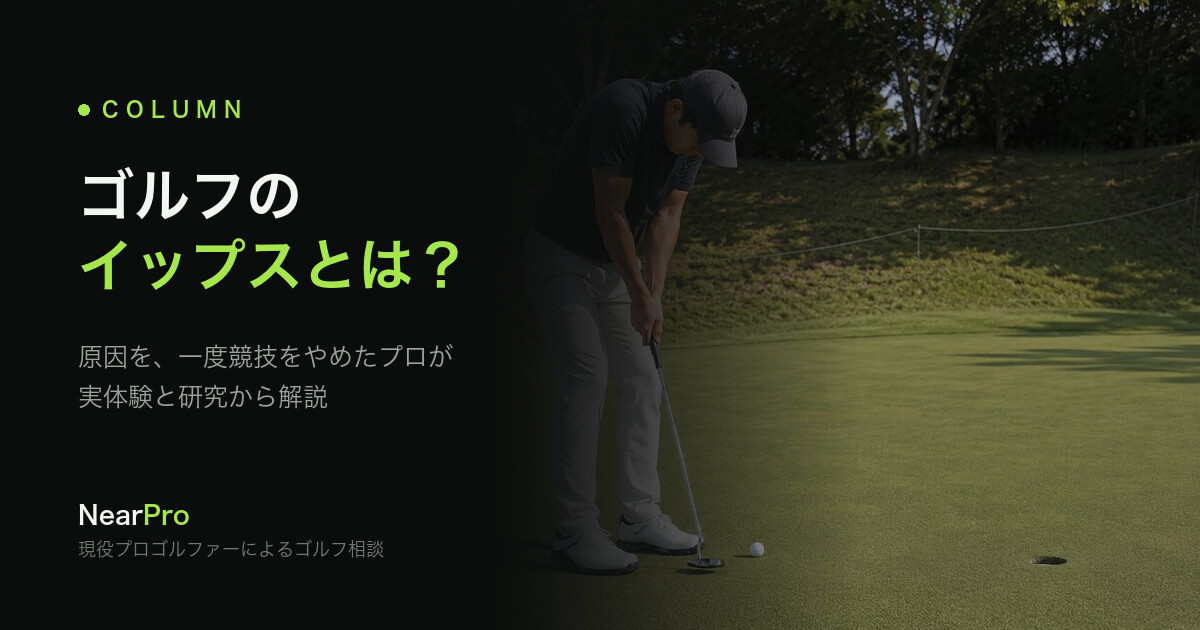
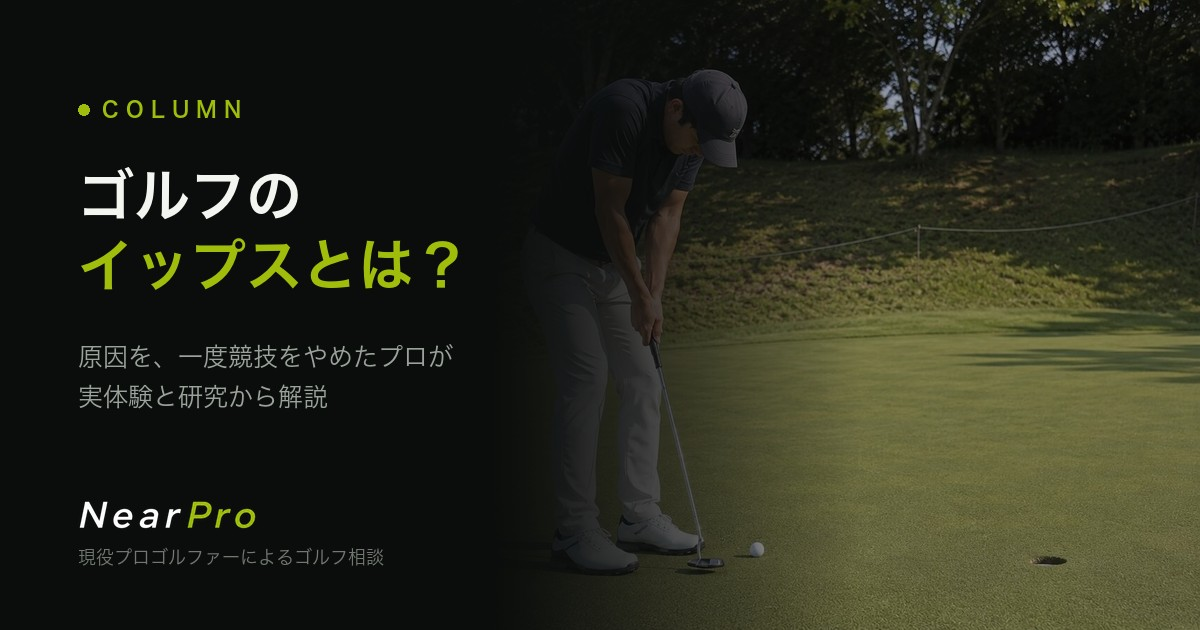
サイト全体の緑をロゴの色(#a0bd0b)に統一、マーキーをロゴ表示に変更、OGP画像を更新

Changed region(s): [[0.0617, 0.7841, 0.3392, 0.9048], [0.0617, 0.3619, 0.4008, 0.4524], [0.0617, 0.1508, 0.2158, 0.181]]

diff --git a/styles.css b/styles.css
@@ -8,9 +8,9 @@
     --faint: #666e66;
     --line: rgba(255, 255, 255, 0.10);
     --line-strong: rgba(255, 255, 255, 0.18);
-    --accent: #a6e64d;
-    --accent-2: #c9ff62;
-    --accent-dim: rgba(166, 230, 77, 0.14);
+    --accent: #a0bd0b;
+    --accent-2: #bcde0d;
+    --accent-dim: rgba(160, 189, 11, 0.14);
     --serif: "Shippori Mincho", "Hiragino Mincho ProN", serif;
     --sans: "Noto Sans JP", "Hiragino Sans", "Helvetica Neue", Arial, sans-serif;
     --mono: "Space Grotesk", "Noto Sans JP", sans-serif;
@@ -100,8 +100,8 @@
   }
   .btn .ico { display: inline-flex; align-items: center; justify-content: center; width: 26px; height: 26px; padding: 0; border-radius: 7px; overflow: hidden; }
   .btn .ico svg { width: 26px; height: 26px; display: block; }
-  .btn.primary { background: var(--accent); color: #10230a; box-shadow: 0 10px 30px rgba(166, 230, 77, 0.28); }
-  .btn.primary:hover { transform: translateY(-2px); background: var(--accent-2); box-shadow: 0 16px 40px rgba(166, 230, 77, 0.4); }
+  .btn.primary { background: var(--accent); color: #10230a; box-shadow: 0 10px 30px rgba(160, 189, 11, 0.28); }
+  .btn.primary:hover { transform: translateY(-2px); background: var(--accent-2); box-shadow: 0 16px 40px rgba(160, 189, 11, 0.4); }
   .btn.ghost { border: 1px solid var(--line-strong); color: var(--text); }
   .btn.ghost:hover { border-color: var(--accent); color: var(--accent); }
   .nav .btn { padding: 11px 20px; font-size: 14px; }
@@ -111,7 +111,7 @@
   .hero-bg { position: absolute; inset: 0; z-index: 0; pointer-events: none; }
   .hero-bg::before {
     content: ""; position: absolute; width: 900px; height: 900px; right: -180px; top: -260px;
-    background: radial-gradient(circle, rgba(166, 230, 77, 0.16), rgba(166, 230, 77, 0) 62%);
+    background: radial-gradient(circle, rgba(160, 189, 11, 0.16), rgba(160, 189, 11, 0) 62%);
   }
   .hero-bg::after {
     content: ""; position: absolute; inset: 0;
@@ -139,7 +139,7 @@
     align-self: flex-start;
   }
   .kicker .dot { width: 7px; height: 7px; border-radius: 50%; background: var(--accent); box-shadow: 0 0 12px var(--accent); }
-  .kicker.limited { border-color: rgba(166, 230, 77, 0.45); color: var(--accent-2); background: var(--accent-dim); font-weight: 600; }
+  .kicker.limited { border-color: rgba(160, 189, 11, 0.45); color: var(--accent-2); background: var(--accent-dim); font-weight: 600; }
   .kicker.limited .dot { animation: pulseDot 1.8s ease-in-out infinite; }
   @keyframes pulseDot { 0%, 100% { opacity: 1; } 50% { opacity: 0.35; } }
   h1.title { font-family: var(--serif); font-weight: 800; font-size: clamp(46px, 5.4vw, 70px); line-height: 1.18; margin: 0 0 26px; letter-spacing: 0.01em; }
@@ -167,7 +167,7 @@
     background: radial-gradient(115% 85% at 50% 24%, transparent 42%, rgba(11, 13, 12, 0.62) 100%);
   }
   .media-ring { position: absolute; inset: -1px; border-radius: inherit; pointer-events: none;
-    box-shadow: inset 0 0 0 1px rgba(166, 230, 77, 0.18); border-radius: 220px 220px 26px 26px; }
+    box-shadow: inset 0 0 0 1px rgba(160, 189, 11, 0.18); border-radius: 220px 220px 26px 26px; }
   .floaty {
     position: absolute; z-index: 3; display: inline-flex; align-items: center; gap: 8px;
     background: rgba(20, 24, 21, 0.78); backdrop-filter: blur(10px); border: 1px solid var(--line-strong);
@@ -184,9 +184,12 @@
 
   /* ===== Marquee ===== */
   .marquee { border-top: 1px solid var(--line); border-bottom: 1px solid var(--line); padding: 20px 0; overflow: hidden; background: #0d100e; }
-  .marquee-track { display: flex; gap: 34px; white-space: nowrap; width: max-content; animation: slide 26s linear infinite; }
+  .marquee-track { display: flex; align-items: center; gap: 34px; white-space: nowrap; width: max-content; animation: slide 26s linear infinite; }
   .marquee span { font-family: var(--brand); font-size: 24px; font-weight: 800; letter-spacing: 0.01em; color: var(--faint); }
   .marquee span.hot { color: var(--accent); }
+  .marquee img { display: block; width: auto; }
+  .mq-word { height: 26px; }
+  .mq-mark { height: 27px; }
   .marquee .sep { color: rgba(255,255,255,0.16); }
   @keyframes slide { to { transform: translateX(-50%); } }
 
@@ -197,7 +200,7 @@
     border: 1px solid var(--line); border-radius: 18px; padding: 30px 24px 32px; position: relative;
     transition: transform 0.35s var(--ease), border-color 0.35s, background 0.35s;
   }
-  .prob:hover { transform: translateY(-6px); border-color: var(--line-strong); background: linear-gradient(180deg, rgba(166,230,77,0.06), rgba(255,255,255,0)); }
+  .prob:hover { transform: translateY(-6px); border-color: var(--line-strong); background: linear-gradient(180deg, rgba(160, 189, 11,0.06), rgba(255,255,255,0)); }
   .prob .pn { font-family: var(--mono); font-size: 13px; color: var(--accent); letter-spacing: 0.1em; }
   .prob .pic { width: 46px; height: 46px; color: var(--accent); margin: 20px 0 18px; }
   .prob p { margin: 0; font-size: 17px; font-weight: 500; line-height: 1.6; }
@@ -215,7 +218,7 @@
   .eq-card .s { color: var(--faint); font-size: 12px; line-height: 1.6; }
   .flow-arrow { text-align: center; color: var(--accent); font-size: 22px; margin: 14px 0; opacity: 0.7; }
   .flow-line { border: 1px solid var(--line); border-radius: 14px; padding: 18px 24px; background: rgba(255,255,255,0.02); }
-  .flow-line.hot { border-color: rgba(166,230,77,0.35); background: var(--accent-dim); }
+  .flow-line.hot { border-color: rgba(160, 189, 11,0.35); background: var(--accent-dim); }
   .flow-line .ttl { font-family: var(--serif); font-weight: 700; font-size: 19px; color: var(--text); }
   .flow-line .ttl em { color: var(--accent); }
   .flow-line .sub { color: var(--muted); font-size: 14px; }
@@ -255,20 +258,20 @@
   /* ===== Flow / how it works ===== */
   .steps { display: grid; grid-template-columns: repeat(3, 1fr); gap: 22px; counter-reset: step; }
   .step { position: relative; border: 1px solid var(--line); border-radius: 20px; padding: 40px 28px 34px; background: rgba(255,255,255,0.02); }
-  .step .sn { font-family: var(--mono); font-size: 52px; font-weight: 700; line-height: 1; color: transparent; -webkit-text-stroke: 1px rgba(166,230,77,0.55); text-stroke: 1px rgba(166,230,77,0.55); }
+  .step .sn { font-family: var(--mono); font-size: 52px; font-weight: 700; line-height: 1; color: transparent; -webkit-text-stroke: 1px rgba(160, 189, 11,0.55); text-stroke: 1px rgba(160, 189, 11,0.55); }
   .step h4 { font-family: var(--serif); font-size: 22px; margin: 18px 0 10px; font-weight: 700; }
   .step p { margin: 0; color: var(--muted); font-size: 14.5px; }
 
   /* ===== Pricing ===== */
   .pricing { position: relative; overflow: hidden; }
-  .pricing .glow { position: absolute; left: 50%; top: 30%; width: 640px; height: 460px; transform: translateX(-50%); background: radial-gradient(circle, rgba(166,230,77,0.14), transparent 62%); pointer-events: none; }
+  .pricing .glow { position: absolute; left: 50%; top: 30%; width: 640px; height: 460px; transform: translateX(-50%); background: radial-gradient(circle, rgba(160, 189, 11,0.14), transparent 62%); pointer-events: none; }
   .price-card {
     max-width: 620px; margin: 0 auto; border: 1px solid var(--line-strong); border-radius: 26px;
     background: linear-gradient(180deg, rgba(21,25,22,0.9), rgba(13,16,14,0.9)); padding: 52px 44px; text-align: center;
     box-shadow: 0 40px 90px rgba(0,0,0,0.5); position: relative; overflow: hidden;
   }
   .price-card::before { content: ""; position: absolute; top: 0; left: 0; right: 0; height: 1px; background: linear-gradient(90deg, transparent, var(--accent), transparent); }
-  .price-card .badge { display: inline-block; font-family: var(--mono); font-size: 12px; letter-spacing: 0.14em; text-transform: uppercase; color: var(--accent); border: 1px solid rgba(166,230,77,0.4); border-radius: 999px; padding: 6px 16px; margin-bottom: 26px; }
+  .price-card .badge { display: inline-block; font-family: var(--mono); font-size: 12px; letter-spacing: 0.14em; text-transform: uppercase; color: var(--accent); border: 1px solid rgba(160, 189, 11,0.4); border-radius: 999px; padding: 6px 16px; margin-bottom: 26px; }
   .price-amt { display: flex; align-items: baseline; justify-content: center; gap: 12px; white-space: nowrap; margin-top: 4px; }
   .price-card .amt { font-family: var(--serif); font-weight: 800; font-size: clamp(50px, 13vw, 74px); line-height: 1; letter-spacing: -0.01em; }
   .price-card .per { font-family: var(--sans); font-size: 17px; font-weight: 600; color: var(--muted); }
@@ -291,7 +294,7 @@
   /* ===== FAQ accordion (shared: LP + FAQ page) ===== */
   .faq-item { border: 1px solid var(--line); border-radius: 14px; background: rgba(255, 255, 255, 0.02);
     margin-bottom: 12px; overflow: hidden; transition: border-color 0.25s var(--ease), background 0.25s var(--ease); }
-  .faq-item[open] { border-color: var(--line-strong); background: rgba(166, 230, 77, 0.04); }
+  .faq-item[open] { border-color: var(--line-strong); background: rgba(160, 189, 11, 0.04); }
   .faq-item summary { list-style: none; cursor: pointer; padding: 20px 22px; font-weight: 700; font-size: clamp(15px, 2.4vw, 16.5px);
     line-height: 1.6; display: flex; align-items: center; gap: 14px; color: var(--text); }
   .faq-item summary::-webkit-details-marker { display: none; }
@@ -315,8 +318,8 @@
   .compare { display: grid; grid-template-columns: 1fr; gap: 18px; align-items: stretch; }
   .panel { border: 1px solid var(--line); border-radius: 18px; padding: 28px 26px; background: rgba(255, 255, 255, 0.02); }
   .panel .tag { display: inline-block; font-family: var(--mono); font-size: 12px; letter-spacing: 0.1em; color: var(--faint); border: 1px solid var(--line); border-radius: 999px; padding: 5px 14px; margin-bottom: 18px; }
-  .panel.hot { background: rgba(166, 230, 77, 0.05); border-color: rgba(166, 230, 77, 0.28); }
-  .panel.hot .tag { color: var(--accent); border-color: rgba(166, 230, 77, 0.4); }
+  .panel.hot { background: rgba(160, 189, 11, 0.05); border-color: rgba(160, 189, 11, 0.28); }
+  .panel.hot .tag { color: var(--accent); border-color: rgba(160, 189, 11, 0.4); }
   .panel h3 { font-size: 18px; margin: 0 0 14px; font-weight: 700; }
   .advice { list-style: none; margin: 0 0 16px; padding: 0; display: flex; flex-direction: column; gap: 8px; }
   .advice li { background: rgba(255, 255, 255, 0.04); border: 1px solid var(--line); border-radius: 10px; padding: 9px 14px; font-size: 13.5px; color: var(--muted); }
@@ -327,7 +330,7 @@
   .cause { display: grid; grid-template-columns: 1fr auto 1fr; align-items: center; gap: 28px; margin-top: 30px; }
   .cause-side { display: flex; flex-direction: column; gap: 14px; }
   .cause-center { width: 168px; height: 168px; border-radius: 50%; background: radial-gradient(circle at 50% 40%, #1c211d, #050605); border: 1px solid var(--line-strong);
-    display: grid; place-items: center; text-align: center; padding: 16px; box-shadow: 0 0 0 6px rgba(166, 230, 77, 0.06), 0 20px 50px rgba(0, 0, 0, 0.5); }
+    display: grid; place-items: center; text-align: center; padding: 16px; box-shadow: 0 0 0 6px rgba(160, 189, 11, 0.06), 0 20px 50px rgba(0, 0, 0, 0.5); }
   .cause-center .ce-t { font-weight: 700; font-size: 16px; color: var(--text); }
   .cause-center .ce-s { font-size: 11px; color: var(--faint); margin-top: 4px; }
   .factor { border: 1px solid var(--line); border-radius: 14px; padding: 14px 16px; background: rgba(255, 255, 255, 0.02); display: flex; gap: 12px; align-items: flex-start; }
@@ -354,14 +357,14 @@
   .tstep .sn { font-family: var(--mono); font-size: 13px; color: var(--accent); font-weight: 700; letter-spacing: 0.08em; }
   .tstep h4 { font-size: 15.5px; margin: 10px 0 8px; font-weight: 700; }
   .tstep p { font-size: 13px; color: var(--muted); margin: 0; line-height: 1.8; }
-  .aim { margin-top: 26px; border: 1px solid rgba(166, 230, 77, 0.3); background: var(--accent-dim); border-radius: 16px; padding: 26px; text-align: center; }
+  .aim { margin-top: 26px; border: 1px solid rgba(160, 189, 11, 0.3); background: var(--accent-dim); border-radius: 16px; padding: 26px; text-align: center; }
   .aim .lbl { font-family: var(--mono); font-size: 12px; letter-spacing: 0.12em; color: var(--accent); text-transform: uppercase; }
   .aim h3 { font-family: var(--serif); font-weight: 700; font-size: clamp(20px, 3vw, 26px); margin: 10px 0 6px; }
   .aim p { color: var(--muted); font-size: 14px; margin: 0; }
   .cc { display: grid; grid-template-columns: 1fr 1fr; gap: 22px; }
   @media (max-width: 820px) { .cc { grid-template-columns: 1fr; } }
   .cc-col { border-radius: 18px; padding: 30px 26px; border: 1px solid var(--line); }
-  .cc-col.can { background: rgba(166, 230, 77, 0.05); border-color: rgba(166, 230, 77, 0.28); }
+  .cc-col.can { background: rgba(160, 189, 11, 0.05); border-color: rgba(160, 189, 11, 0.28); }
   .cc-col > h3 { font-size: 17px; margin: 0 0 6px; font-weight: 700; }
   .cc-col > .note { font-size: 12.5px; color: var(--faint); margin: 0 0 20px; }
   .cc-item { display: flex; gap: 12px; padding: 14px 0; border-top: 1px solid var(--line); }
@@ -450,6 +453,8 @@
     .eq { grid-template-columns: 1fr; }
     .eq .plus { display: none; }
     .marquee span { font-size: 20px; }
+    .mq-word { height: 21px; }
+    .mq-mark { height: 22px; }
     .nav .btn { display: none; }
     header.site .wrap { height: 64px; }
     /* sticky mobile CTA */
@@ -465,7 +470,7 @@
   /* ===== Sub-page hero (legal / profile) ===== */
   .page-lead-hero { padding: 140px 0 30px; position: relative; overflow: hidden; }
   .page-lead-hero::after { content: ""; position: absolute; width: 640px; height: 640px; right: -220px; top: -300px; z-index: 0; pointer-events: none;
-    background: radial-gradient(circle, rgba(166,230,77,0.12), rgba(166,230,77,0) 62%); }
+    background: radial-gradient(circle, rgba(160, 189, 11,0.12), rgba(160, 189, 11,0) 62%); }
   .page-lead-hero .wrap { position: relative; z-index: 1; }
   .page-lead-hero h1 { font-family: var(--serif); font-weight: 800; font-size: clamp(28px, 4.6vw, 46px); line-height: 1.25; margin: 16px 0 12px; letter-spacing: 0.01em; }
   .page-lead-hero p { color: var(--muted); margin: 0; max-width: 34em; line-height: 1.9; }
@@ -497,7 +502,7 @@
   /* ===== Profile (about) page ===== */
   .story-item { display: grid; grid-template-columns: auto 1fr; gap: 22px; padding: 32px 0; border-top: 1px solid var(--line); }
   .story-item:first-of-type { border-top: none; }
-  .story-item .snum { font-family: var(--mono); font-size: 40px; font-weight: 700; line-height: 1; color: transparent; -webkit-text-stroke: 1px rgba(166,230,77,0.6); }
+  .story-item .snum { font-family: var(--mono); font-size: 40px; font-weight: 700; line-height: 1; color: transparent; -webkit-text-stroke: 1px rgba(160, 189, 11,0.6); }
   .story-item h3 { font-family: var(--serif); font-size: clamp(19px, 2.6vw, 24px); margin: 0 0 12px; font-weight: 700; }
   .story-item p { color: var(--muted); font-size: 15px; line-height: 1.95; margin: 0; }
   @media (max-width: 560px) { .story-item { grid-template-columns: 1fr; gap: 8px; padding: 26px 0; } .story-item .snum { font-size: 30px; } }
@@ -517,7 +522,7 @@
   /* ===== Blog: 一覧 ===== */
   .blog-hero { padding: 140px 0 20px; position: relative; overflow: hidden; }
   .blog-hero::after { content: ""; position: absolute; width: 640px; height: 640px; right: -220px; top: -300px; z-index: 0; pointer-events: none;
-    background: radial-gradient(circle, rgba(166,230,77,0.12), rgba(166,230,77,0) 62%); }
+    background: radial-gradient(circle, rgba(160, 189, 11,0.12), rgba(160, 189, 11,0) 62%); }
   .blog-hero .wrap { position: relative; z-index: 1; }
   .blog-hero h1 { font-family: var(--sans); font-weight: 700; font-size: clamp(29px, 4.4vw, 43px); line-height: 1.4; letter-spacing: -0.01em; margin: 16px 0 12px; }
   .blog-hero p { color: var(--muted); margin: 0; max-width: 34em; line-height: 1.9; }
@@ -533,10 +538,10 @@
     transition: transform .5s var(--ease); }
   .post-card:hover .post-thumb img { transform: scale(1.045); }
   .post-body { padding: 26px 28px; display: flex; flex-direction: column; justify-content: center; }
-  .post-card:hover { border-color: rgba(166,230,77,0.4); background: rgba(166,230,77,0.04); transform: translateY(-2px); }
+  .post-card:hover { border-color: rgba(160, 189, 11,0.4); background: rgba(160, 189, 11,0.04); transform: translateY(-2px); }
   .post-meta { display: flex; align-items: center; gap: 12px; flex-wrap: wrap; margin-bottom: 12px; }
   .post-cat { font-family: var(--mono); font-size: 11.5px; letter-spacing: .08em; color: var(--accent);
-    border: 1px solid rgba(166,230,77,0.4); background: var(--accent-dim); border-radius: 999px; padding: 4px 12px; }
+    border: 1px solid rgba(160, 189, 11,0.4); background: var(--accent-dim); border-radius: 999px; padding: 4px 12px; }
   .post-date { font-family: var(--mono); font-size: 12.5px; color: var(--faint); }
   .post-card h2 { font-family: var(--sans); font-size: clamp(18px, 2.5vw, 22px); line-height: 1.6; letter-spacing: -0.005em; margin: 0 0 10px; font-weight: 700; }
   .post-card p { color: var(--muted); font-size: 14.5px; line-height: 1.85; margin: 0; }
@@ -560,7 +565,7 @@
     font-family: var(--mono); font-size: 11px; font-weight: 600; letter-spacing: 0.22em; color: var(--accent);
     margin-bottom: 14px; }
   .article-body h3 { font-size: clamp(17px, 2.3vw, 19px); font-weight: 700; margin: 44px 0 14px; color: var(--text);
-    line-height: 1.7; padding-left: 15px; border-left: 3px solid rgba(166,230,77,0.45); }
+    line-height: 1.7; padding-left: 15px; border-left: 3px solid rgba(160, 189, 11,0.45); }
   .article-body p { color: #c2c9bf; font-size: 16px; line-height: 2.15; margin: 0 0 21px; }
   .article-body strong { color: var(--text); font-weight: 700; }
   .article-body em { color: var(--accent); font-style: normal; font-weight: 700; }
@@ -570,7 +575,7 @@
   .article-body figure { margin: 30px 0; }
   .article-body figure img { width: 100%; height: auto; border-radius: 14px; border: 1px solid var(--line); display: block; }
   .article-body figcaption { color: var(--faint); font-size: 12.5px; margin-top: 10px; text-align: center; }
-  .callout { border: 1px solid rgba(166,230,77,0.3); background: var(--accent-dim); border-radius: 14px;
+  .callout { border: 1px solid rgba(160, 189, 11,0.3); background: var(--accent-dim); border-radius: 14px;
     padding: 22px 24px; margin: 30px 0; }
   .callout p:last-child { margin-bottom: 0; }
   .callout .ttl { font-weight: 700; color: var(--accent-2); margin-bottom: 8px; display: block; }
@@ -618,8 +623,8 @@
   /* 本文中の要点ブロック（段落まるごとの強調） */
   .article-body .lead-line { font-size: clamp(16.5px, 2.2vw, 19px); line-height: 1.95; font-weight: 700;
     color: var(--text); margin: 36px 0; padding: 24px 26px; border-radius: 16px;
-    background: linear-gradient(180deg, rgba(166,230,77,0.075), rgba(166,230,77,0.015));
-    border: 1px solid rgba(166,230,77,0.22); position: relative; }
+    background: linear-gradient(180deg, rgba(160, 189, 11,0.075), rgba(160, 189, 11,0.015));
+    border: 1px solid rgba(160, 189, 11,0.22); position: relative; }
   .article-body .lead-line::before { content: ""; position: absolute; left: 0; top: 22px; bottom: 22px;
     width: 3px; border-radius: 3px; background: var(--accent); }
 

diff --git a/index.html b/index.html
@@ -151,12 +151,12 @@
 <!-- ===== MARQUEE ===== -->
 <div class="marquee" aria-hidden="true">
   <div class="marquee-track">
-    <span>NearPro</span><span class="sep">◦</span><span class="hot">NearPro</span><span class="sep">◦</span>
-    <span>NearPro</span><span class="sep">◦</span><span class="hot">NearPro</span><span class="sep">◦</span>
-    <span>NearPro</span><span class="sep">◦</span><span class="hot">NearPro</span><span class="sep">◦</span>
-    <span>NearPro</span><span class="sep">◦</span><span class="hot">NearPro</span><span class="sep">◦</span>
-    <span>NearPro</span><span class="sep">◦</span><span class="hot">NearPro</span><span class="sep">◦</span>
-    <span>NearPro</span><span class="sep">◦</span><span class="hot">NearPro</span><span class="sep">◦</span>
+    <img class="mq-word" src="/assets/logo/logo-wordmark.png" alt="" width="807" height="135" /><span class="sep">◦</span><img class="mq-mark" src="/assets/logo/logo-mark.png" alt="" width="595" height="317" /><span class="sep">◦</span>
+    <img class="mq-word" src="/assets/logo/logo-wordmark.png" alt="" width="807" height="135" /><span class="sep">◦</span><img class="mq-mark" src="/assets/logo/logo-mark.png" alt="" width="595" height="317" /><span class="sep">◦</span>
+    <img class="mq-word" src="/assets/logo/logo-wordmark.png" alt="" width="807" height="135" /><span class="sep">◦</span><img class="mq-mark" src="/assets/logo/logo-mark.png" alt="" width="595" height="317" /><span class="sep">◦</span>
+    <img class="mq-word" src="/assets/logo/logo-wordmark.png" alt="" width="807" height="135" /><span class="sep">◦</span><img class="mq-mark" src="/assets/logo/logo-mark.png" alt="" width="595" height="317" /><span class="sep">◦</span>
+    <img class="mq-word" src="/assets/logo/logo-wordmark.png" alt="" width="807" height="135" /><span class="sep">◦</span><img class="mq-mark" src="/assets/logo/logo-mark.png" alt="" width="595" height="317" /><span class="sep">◦</span>
+    <img class="mq-word" src="/assets/logo/logo-wordmark.png" alt="" width="807" height="135" /><span class="sep">◦</span><img class="mq-mark" src="/assets/logo/logo-mark.png" alt="" width="595" height="317" /><span class="sep">◦</span>
   </div>
 </div>
 

diff --git a/faq.html b/faq.html
@@ -53,7 +53,7 @@
   .page-hero { padding: 150px 0 44px; position: relative; overflow: hidden; }
   .page-hero::after {
     content: ""; position: absolute; width: 720px; height: 720px; right: -220px; top: -320px; z-index: 0; pointer-events: none;
-    background: radial-gradient(circle, rgba(166, 230, 77, 0.14), rgba(166, 230, 77, 0) 62%);
+    background: radial-gradient(circle, rgba(160, 189, 11, 0.14), rgba(160, 189, 11, 0) 62%);
   }
   .page-hero .wrap { position: relative; z-index: 1; }
   .page-hero h1 { font-family: var(--serif); font-weight: 800; font-size: clamp(34px, 5vw, 54px); line-height: 1.2; margin: 16px 0 12px; letter-spacing: 0.01em; }
